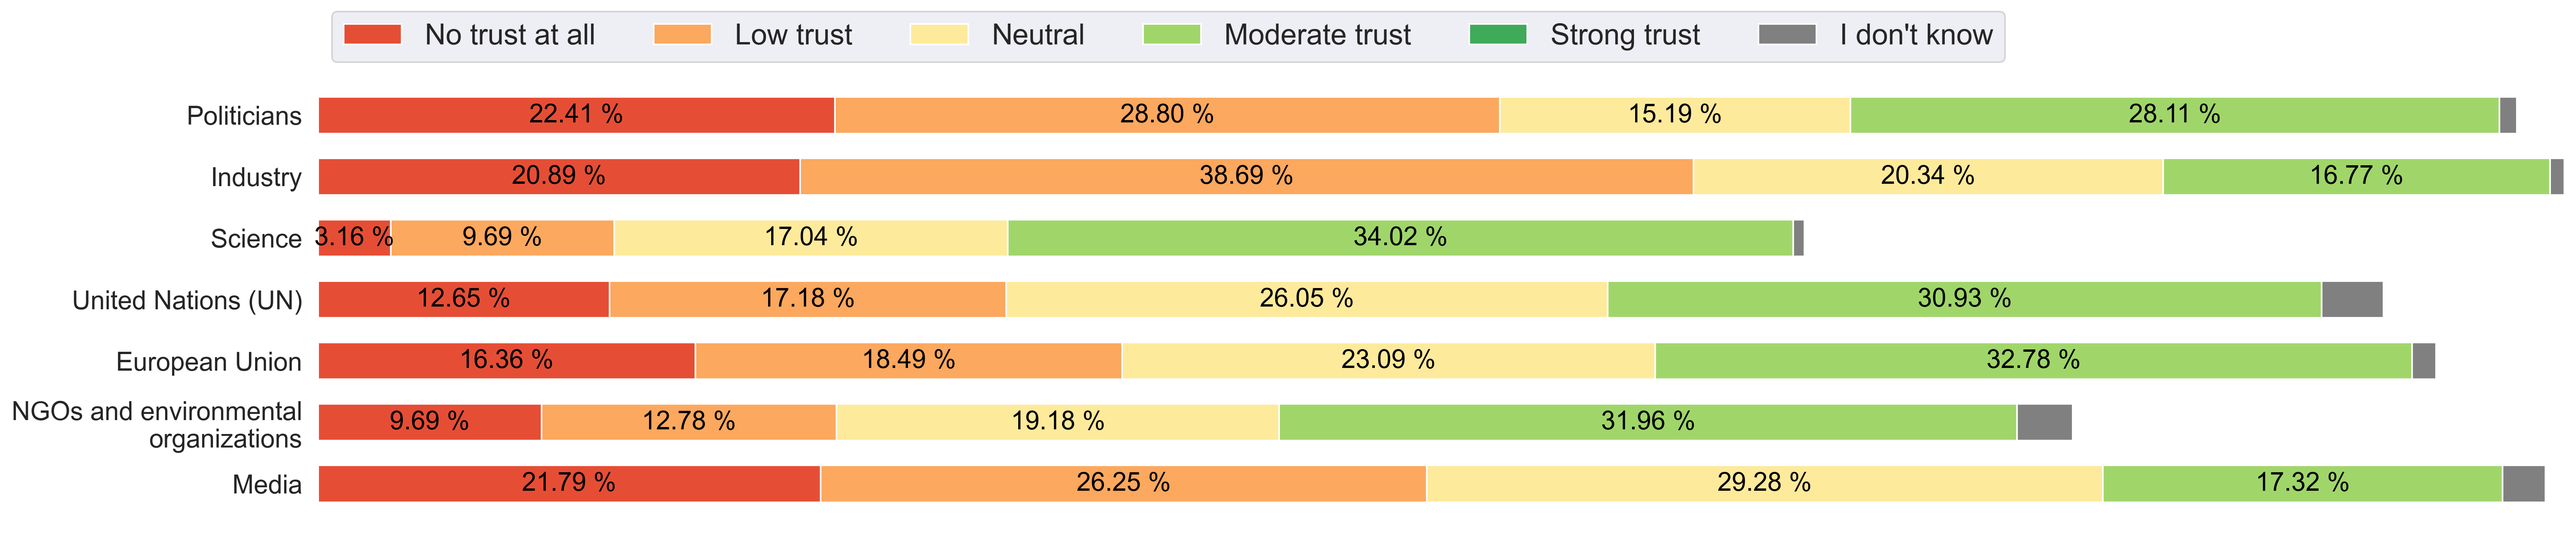
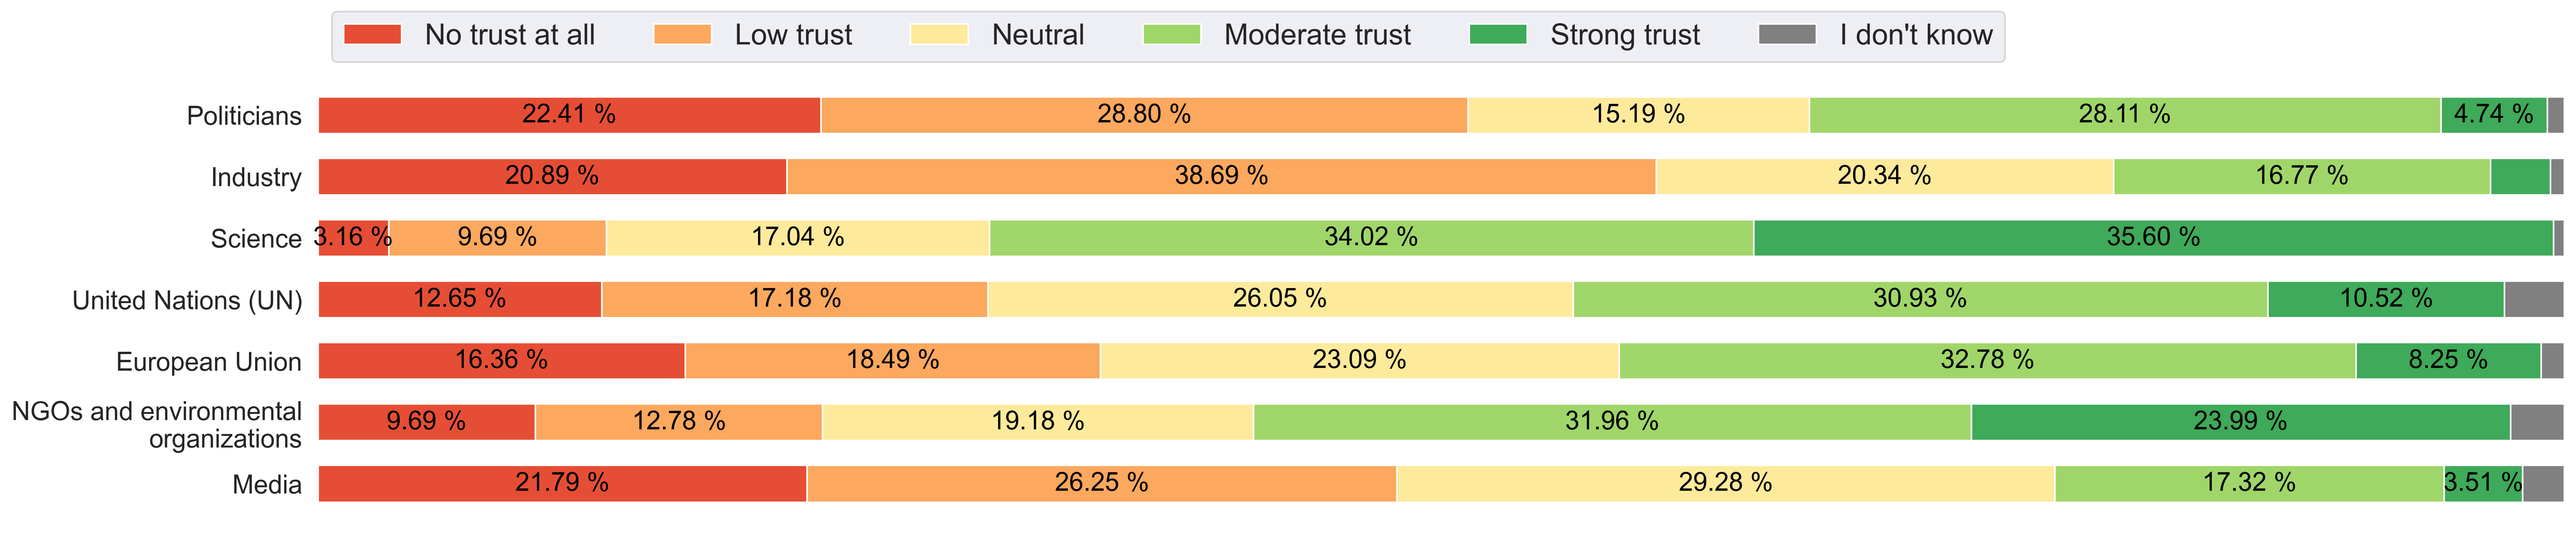
fix type for strong trust

diff --git a/dacstore/config.py b/dacstore/config.py
@@ -506,7 +506,7 @@ translation_answers = {
     "Überhaupt kein Vertrauen": "No trust at all",
     "Geringes Vertrauen": "Low trust",
     "Mäßiges Vertrauen": "Moderate trust",
-    "Starkes Vertrauen": "Strongly trust",
+    "Starkes Vertrauen": "Strong trust",
 }
 
 
